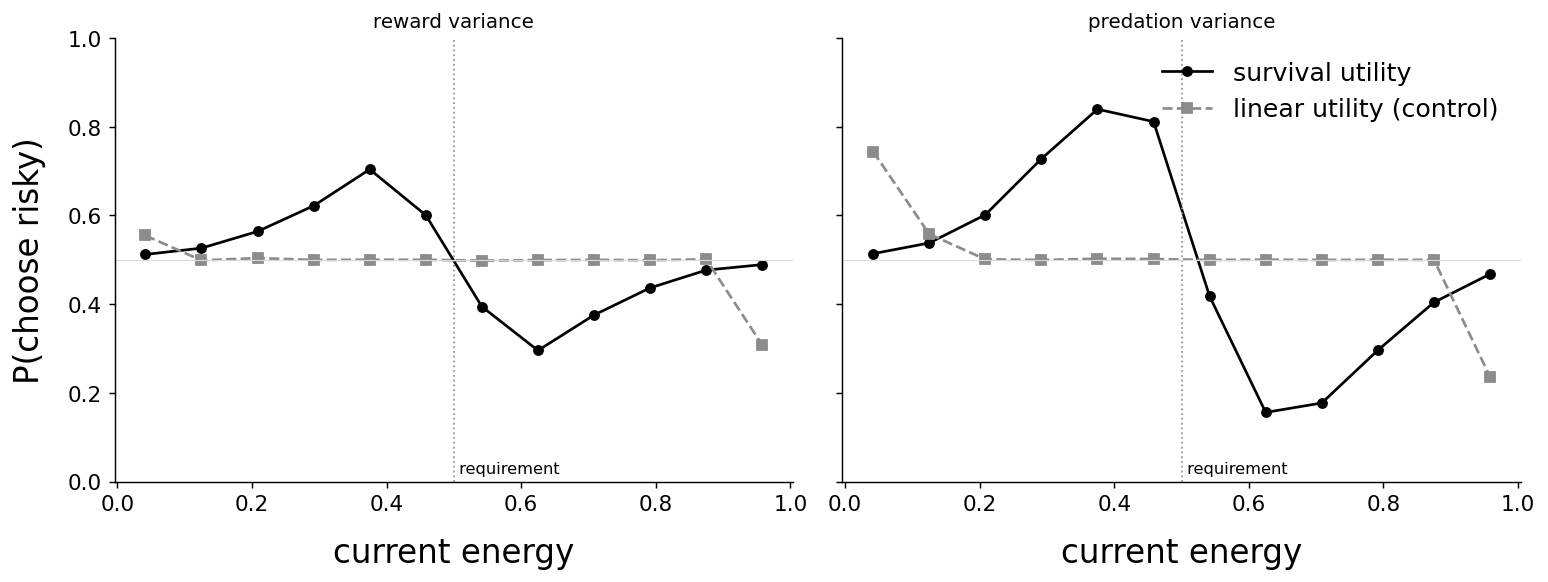
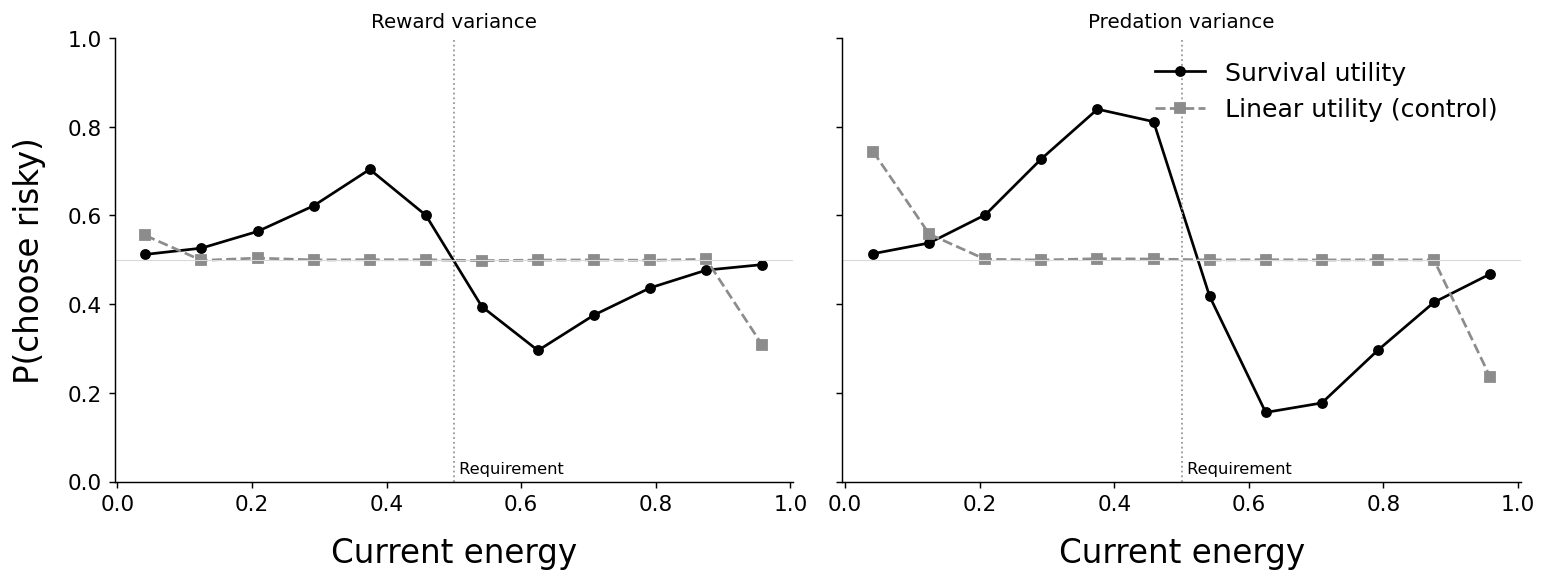
Risk-sensitivity: close the loop (behavioral) + parametric requirement sweep
Two follow-ups to the first-principles survival DP, plus publication-case axis text on the
risk figures.

Closing the loop (survival.simulate_survival_choice): a population that actually lives and
dies, choosing by a softmax over the DP-DERIVED survival values (no imposed utility),
reproduces the energy-budget band in its realized policy, and its realized survival-by-
starting-energy matches the planner's V(E) (max diff ~0.12, at the steep transition). The
first-principles policy is executable behavior that achieves the predicted survival.

Parametric requirement (studies/risk_sensitivity/parametric.py): R = night_steps*metabolism
is the one knob that sets where the band sits. Sweeping the night length, the dusk safe-
suffices edge tracks R almost exactly (one forage step below): R 0.24/0.42/0.60/0.78/0.96 ->
edge 0.22/0.40/0.58/0.76/0.94. A heavier survival burden shifts the whole band to higher
reserves.

Figures: closing_the_loop.png, requirement_sweep.png; risk figures regenerated with
Sentence-case labels/titles/legends (publication style).

Validation: ruff clean; 75 tests pass (survival module covered). Study artifacts; DP is
deterministic, not in the reproduce baseline.

diff --git a/studies/risk_sensitivity/parametric.py b/studies/risk_sensitivity/parametric.py
@@ -1,0 +1,116 @@
+"""Closing the loop + a parametric sweep of the energy requirement.
+
+Two follow-ups to first_principles.py:
+
+1. CLOSING THE LOOP -- a behavioral population that actually lives and dies, choosing by a
+   softmax over the DP-DERIVED survival values (not an imposed utility;
+   survival.simulate_survival_choice). Its realized risk policy reproduces the energy-budget
+   band, and its realized survival-by-starting-energy matches the planner's V(E) -- so the
+   first-principles policy is executable behavior, not just a normative table.
+
+2. PARAMETRIC requirement -- the requirement R = night_steps * metabolism is the one knob
+   that sets where the band sits. Sweeping the night length, the dusk safe-suffices edge
+   tracks R almost exactly: a heavier survival burden pushes the whole risk-prone band to
+   higher reserves. The requirement is derived, and it is the right axis.
+
+Run:   python studies/risk_sensitivity/parametric.py
+Saves: studies/risk_sensitivity/figures/closing_the_loop.png
+       studies/risk_sensitivity/figures/requirement_sweep.png
+"""
+
+from __future__ import annotations
+
+from pathlib import Path
+
+import matplotlib
+
+matplotlib.use("Agg")
+import matplotlib.pyplot as plt  # noqa: E402
+import numpy as np  # noqa: E402
+
+from behavioral_md.survival import (  # noqa: E402
+    risk_threshold,
+    simulate_survival_choice,
+    survival_dp,
+)
+
+FIG = Path(__file__).parent / "figures"
+S, METAB, DAY = 0.05, 0.03, 24
+SAFE = [(1.0, S)]
+RISKY = [(0.5, 0.0), (0.5, 2 * S)]
+plt.rcParams.update({"axes.spines.top": False, "axes.spines.right": False,
+                     "axes.labelsize": 12, "xtick.labelsize": 10, "ytick.labelsize": 10,
+                     "legend.fontsize": 10})
+
+
+def closing_the_loop() -> None:
+    res = survival_dp(SAFE, RISKY, DAY, 24, METAB)
+    sim = simulate_survival_choice(res, SAFE, RISKY, n_org=8000, n_cycles=1, beta=40, seed=0,
+                                   n_ebins=20)
+    e = np.array(sim["energy_bins"])
+    rby = np.array(sim["risky_by_energy"])
+    sbs = np.array(sim["survival_by_start"])
+    bc = np.array(sim["bin_count"])
+    vbin = np.interp(e, res["energy"], res["value"])      # DP-predicted dawn survival V(E)
+    rby = np.where(bc > 200, rby, np.nan)
+
+    fig, (axL, axR) = plt.subplots(1, 2, figsize=(12, 4.6))
+    axL.plot(e, rby, color="black", marker="o", ms=5)
+    axL.axhline(0.5, color="0.85", lw=0.6)
+    axL.set_xlabel("Current energy")
+    axL.set_ylabel("P(choose risky)")
+    axL.set_title("Realized policy (behavioral)", fontsize=11)
+    axL.set_ylim(0, 1)
+    axR.plot(e, vbin, color="0.55", ls="--", lw=2, label="DP-predicted V(E)")
+    axR.plot(e, sbs, color="black", marker="o", ms=5, label="Realized survival")
+    axR.set_xlabel("Starting energy")
+    axR.set_ylabel("P(survive the cycle)")
+    axR.set_title("Realized survival matches the planner", fontsize=11)
+    axR.set_ylim(0, 1.02)
+    axR.legend(loc="lower right", frameon=False)
+    fig.tight_layout()
+    fig.savefig(FIG / "closing_the_loop.png", dpi=130, bbox_inches="tight")
+    plt.close(fig)
+
+
+def requirement_sweep() -> None:
+    nights = [8, 14, 20, 26, 32]
+    Rs, edges = [], []
+    fig, (axL, axR) = plt.subplots(1, 2, figsize=(12, 4.6))
+    for i, night in enumerate(nights):
+        res = survival_dp(SAFE, RISKY, DAY, night, METAB)
+        thr = risk_threshold(res)
+        R = res["night_requirement"]
+        Rs.append(R)
+        edges.append(float(np.nanmax(thr[-3:])))
+        shade = str(0.15 + 0.6 * i / len(nights))
+        axL.plot(thr, np.arange(DAY), lw=1.4, color=shade, label=f"R = {R:.2f}")
+    axL.set_xlabel("Safe-suffices edge (energy)")
+    axL.set_ylabel("Time of day (0 = dawn → dusk)")
+    axL.set_title("The band's upper edge rises to R at dusk", fontsize=11)
+    axL.legend(frameon=False, fontsize=9)
+
+    axR.plot([0, 1], [0, 1], color="0.8", ls=":", lw=1)        # identity
+    axR.plot(Rs, edges, color="black", marker="o", ms=6)
+    axR.set_xlabel("Energy requirement  R = night steps × metabolism")
+    axR.set_ylabel("Dusk safe-suffices edge")
+    axR.set_title("The threshold tracks the requirement", fontsize=11)
+    axR.set_xlim(0, 1)
+    axR.set_ylim(0, 1)
+    fig.tight_layout()
+    fig.savefig(FIG / "requirement_sweep.png", dpi=130, bbox_inches="tight")
+    plt.close(fig)
+    print("Dusk threshold vs requirement R:")
+    for r, ed in zip(Rs, edges, strict=True):
+        print(f"  R={r:.2f}  ->  dusk edge={ed:.2f}")
+
+
+def main() -> None:
+    FIG.mkdir(parents=True, exist_ok=True)
+    closing_the_loop()
+    requirement_sweep()
+    print(f"Saved {FIG/'closing_the_loop.png'} and {FIG/'requirement_sweep.png'}")
+
+
+if __name__ == "__main__":
+    main()

diff --git a/src/behavioral_md/survival.py b/src/behavioral_md/survival.py
@@ -93,3 +93,65 @@ def softmax_policy(result: dict, beta: float) -> np.ndarray:
     """
     d = result["q_risky"] - result["q_safe"]
     return 1.0 / (1.0 + np.exp(-beta * d))
+
+
+def simulate_survival_choice(result: dict, safe_outcomes, risky_outcomes, n_org: int,
+                             n_cycles: int, beta: float = 40.0, seed: int = 0,
+                             cap: float = 1.0, n_ebins: int = 20):
+    """Closing the loop: a BEHAVIORAL population that actually lives and dies, choosing by
+    softmax over the DP-DERIVED survival values (no imposed utility).
+
+    Each organism cycles through day (forage; choose by ``sigma(beta*(q_risky - q_safe))``
+    at its current energy and time-of-day, looked up from ``result``) and night (forced
+    fast), with a hard death at E <= 0; energy carries across cycles. Organisms start spread
+    across the reserve so the whole policy is sampled. Returns the realized risky-choice
+    fraction binned by current energy (``risky_by_energy`` [n_ebins], ``energy_bins``), the
+    bin counts, and the survival fraction -- the energy-budget rule as executed behavior,
+    derived from survival alone.
+    """
+    rng = np.random.default_rng(seed)
+    eg = result["energy"]
+    qs_t, qr_t = result["q_safe"], result["q_risky"]
+    day, night, metab = result["day_steps"], result["night_steps"], result["metabolism"]
+    sp = np.array([o[0] for o in safe_outcomes])
+    sd = np.array([o[1] for o in safe_outcomes])
+    rp = np.array([o[0] for o in risky_outcomes])
+    rd = np.array([o[1] for o in risky_outcomes])
+
+    energy = np.linspace(0.02, cap, n_org)            # spread so all bins are visited
+    start_energy = energy.copy()
+    alive = np.ones(n_org, bool)
+    risky_count = np.zeros(n_ebins)
+    bin_count = np.zeros(n_ebins)
+
+    def sample(p, d):
+        return d[(rng.random(n_org)[:, None] < np.cumsum(p)[None, :]).argmax(1)]
+
+    for _ in range(n_cycles):
+        for t in range(day):
+            qs = np.interp(np.clip(energy, 0, cap), eg, qs_t[t])
+            qr = np.interp(np.clip(energy, 0, cap), eg, qr_t[t])
+            p_risky = 1.0 / (1.0 + np.exp(-beta * (qr - qs)))
+            choose_risky = (rng.random(n_org) < p_risky) & alive
+            b = np.clip(energy / cap * n_ebins, 0, n_ebins - 1).astype(int)
+            np.add.at(bin_count, b[alive], 1.0)
+            np.add.at(risky_count, b[alive], choose_risky[alive].astype(float))
+            intake = np.where(choose_risky, sample(rp, rd), sample(sp, sd))
+            energy = np.where(alive, np.clip(energy + intake - metab, 0.0, cap), energy)
+            alive = alive & (energy > 0.0)
+        for _ in range(night):
+            energy = np.where(alive, np.clip(energy - metab, 0.0, cap), energy)
+            alive = alive & (energy > 0.0)
+
+    bins = [(i + 0.5) / n_ebins * cap for i in range(n_ebins)]
+    # Realized survival binned by STARTING energy (compare to the DP's predicted V(E)).
+    sb = np.clip(start_energy / cap * n_ebins, 0, n_ebins - 1).astype(int)
+    surv_n = np.zeros(n_ebins)
+    surv_alive = np.zeros(n_ebins)
+    np.add.at(surv_n, sb, 1.0)
+    np.add.at(surv_alive, sb, alive.astype(float))
+    return {"energy_bins": bins,
+            "risky_by_energy": (risky_count / np.maximum(bin_count, 1)).tolist(),
+            "bin_count": bin_count.tolist(),
+            "survival_by_start": (surv_alive / np.maximum(surv_n, 1)).tolist(),
+            "survival": float(alive.mean())}

diff --git a/src/behavioral_md/visualization.py b/src/behavioral_md/visualization.py
@@ -597,17 +597,17 @@ def plot_risk_sensitivity(energy, version_a: dict, version_b: dict, e_req: float
     """
     energy = np.asarray(energy, float)
     fig, axes = plt.subplots(1, 2, figsize=(12, 4.6), sharey=True)
-    titles = ["reward variance", "predation variance"]
+    titles = ["Reward variance", "Predation variance"]
     for ax, ver, title in zip(axes, (version_a, version_b), titles, strict=True):
         ax.plot(energy, np.asarray(ver["survival"], float), color="black", ls="-",
-                marker="o", ms=5, label="survival utility")
+                marker="o", ms=5, label="Survival utility")
         ax.plot(energy, np.asarray(ver["linear"], float), color="0.55", ls="--",
-                marker="s", ms=5, label="linear utility (control)")
+                marker="s", ms=5, label="Linear utility (control)")
         ax.axvline(e_req, color="0.6", ls=":", lw=1.0)
         ax.axhline(0.5, color="0.85", lw=0.6)
-        ax.set_xlabel("current energy")
+        ax.set_xlabel("Current energy")
         ax.set_title(title, fontsize=11)
-        ax.text(e_req, 0.02, " requirement", fontsize=9, ha="left")
+        ax.text(e_req, 0.02, " Requirement", fontsize=9, ha="left")
     axes[0].set_ylabel("P(choose risky)")
     axes[0].set_ylim(0, 1)
     axes[1].legend(loc="upper right", frameon=False)

diff --git a/studies/risk_sensitivity/first_principles.py b/studies/risk_sensitivity/first_principles.py
@@ -66,13 +66,13 @@ def main() -> None:
     # The risk-prone band envelope vs time of day: ruin edge (lower) and safe-suffices
     # edge (upper). Below the band = doomed; above = safe already secures survival.
     fig, ax = plt.subplots(figsize=(8, 5))
-    ax.fill_betweenx(t, lo, hi, color="0.4", alpha=0.85, lw=0, label="risk-prone (gamble)")
-    ax.plot(hi, t, color="black", lw=1.6, label="safe-suffices edge (risk-averse above)")
-    ax.plot(lo, t, color="black", lw=1.2, ls="--", label="ruin edge (doomed below)")
+    ax.fill_betweenx(t, lo, hi, color="0.4", alpha=0.85, lw=0, label="Risk-prone (gamble)")
+    ax.plot(hi, t, color="black", lw=1.6, label="Safe-suffices edge (risk-averse above)")
+    ax.plot(lo, t, color="black", lw=1.2, ls="--", label="Ruin edge (doomed below)")
     ax.axvline(R, color="black", ls=":", lw=1.2)
-    ax.text(R, DAY - 1, " night requirement R", fontsize=10, va="top", ha="left")
-    ax.set_xlabel("energy reserve")
-    ax.set_ylabel("time of day (0 = dawn  ->  dusk)")
+    ax.text(R, DAY - 1, " Night requirement R", fontsize=10, va="top", ha="left")
+    ax.set_xlabel("Energy reserve")
+    ax.set_ylabel("Time of day (0 = dawn → dusk)")
     ax.set_xlim(0, 1)
     ax.set_ylim(0, DAY - 1)
     ax.legend(loc="upper left", bbox_to_anchor=(1.02, 1.0), frameon=False)

diff --git a/studies/risk_sensitivity/README.md b/studies/risk_sensitivity/README.md
@@ -101,13 +101,34 @@ edge), not by a utility that happens to saturate. The bump in `exp030` is what a
 rational* chooser (softmax over a saturating value) produces — `survival.softmax_policy`
 reproduces it — but the bound and the band themselves come from survival, not from `e_req`.
 
+## Closing the loop, and the requirement as the one axis (`parametric.py`)
+
+Two follow-ups confirm the derivation is behavior, not just a table.
+
+**Closing the loop** (`figures/closing_the_loop.png`). A population that actually lives and
+dies, choosing by a softmax over the **DP-derived** survival values (no imposed utility;
+`survival.simulate_survival_choice`), reproduces the energy-budget band in its *realized*
+policy, and its realized survival-by-starting-energy matches the planner's `V(E)`. The
+first-principles policy is executable behavior that achieves the predicted survival.
+
+**The requirement is the axis** (`figures/requirement_sweep.png`). `R = night_steps ×
+metabolism` is the one knob that sets where the band sits. Sweeping the night length, the
+dusk safe-suffices edge tracks `R` almost exactly (it sits one forage step below it):
+
+```
+R (= night × metabolism):  0.24  0.42  0.60  0.78  0.96
+dusk safe-suffices edge:    0.22  0.40  0.58  0.76  0.94
+```
+
+A heavier survival burden pushes the whole risk-prone band to higher reserves. The
+requirement is derived from the dynamics, and it is the right parametric axis.
+
 ## Limitations
 
 - The DP gives the *normative* optimum (a planner with full knowledge of the option
-  distributions); it is the benchmark, not a learning organism. The natural next step is to
-  let the behavioral chamber choose by softmax over the **DP-derived** survival values
-  rather than the imposed sigmoid, and ultimately to learn the distributions from experience
-  (or let selection shape an innate state-dependent rule).
+  distributions). The behavioral model executes that policy but is still handed the values;
+  the remaining step is to *learn* the distributions from experience (or let selection shape
+  an innate state-dependent rule).
 - The band edges show a fine sawtooth — a real "reachability comb" from the discrete
   (0 / 2s) gamble: the requirement can only be reached via whole numbers of lucky draws. A
   smoother outcome distribution fills it in; the envelope is what matters.
